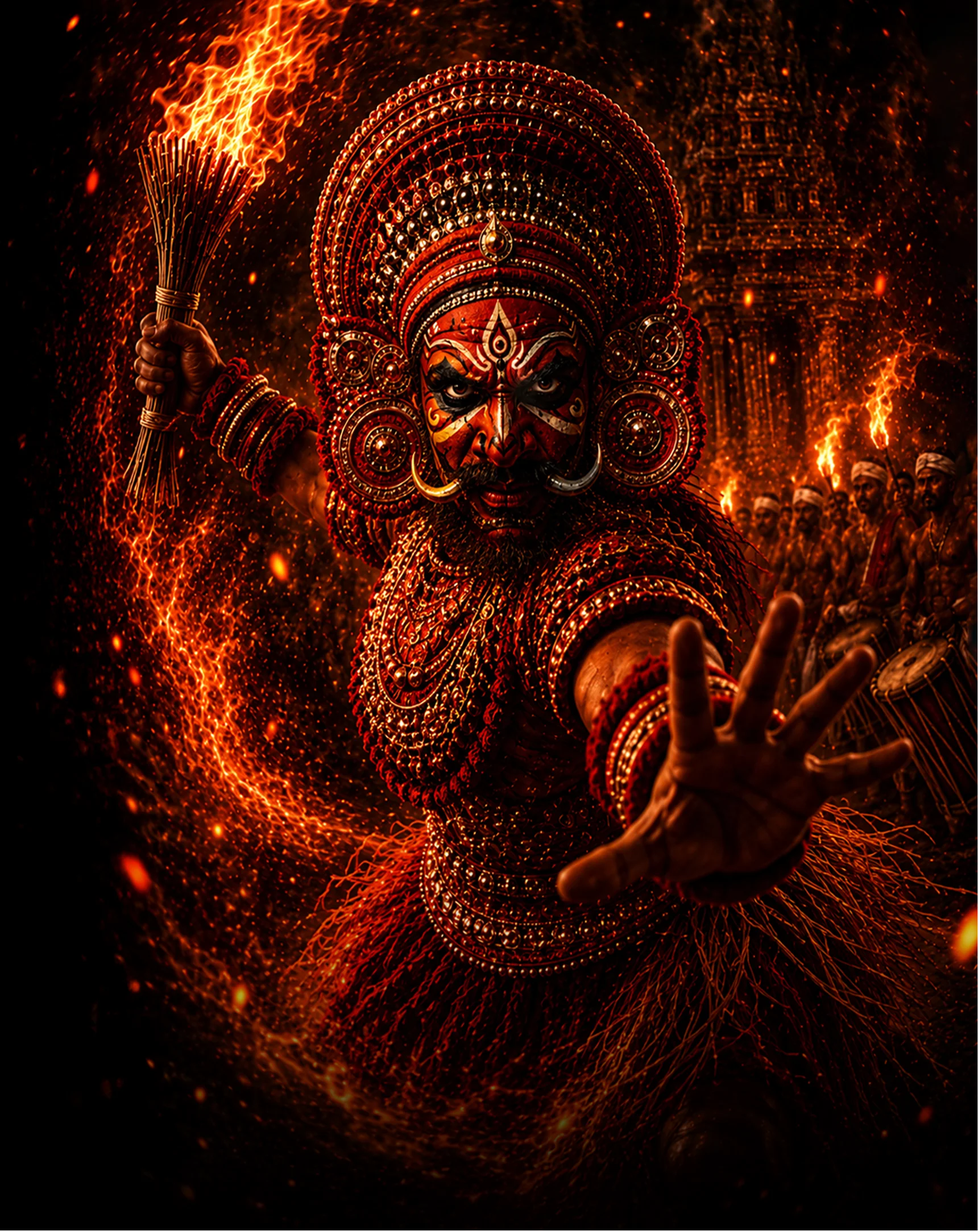
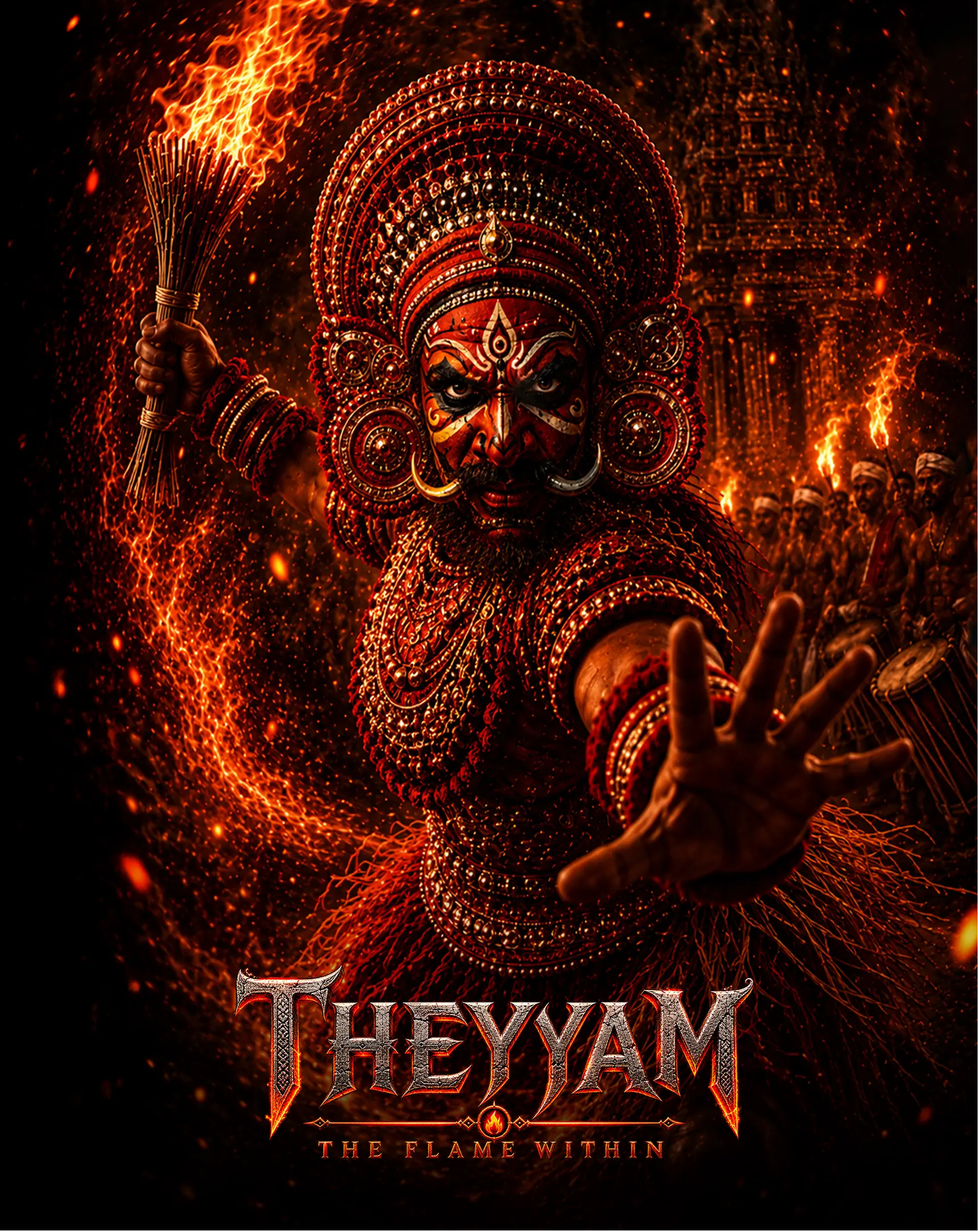
changes in about and theyyam img

Changed region(s): [[0.2157, 0.7733, 0.7703, 0.9589]]

diff --git a/app/components/home/about.tsx b/app/components/home/about.tsx
@@ -164,7 +164,7 @@ const AboutSec: React.FunctionComponent = () => {
           }}
         >
           <p className="w-full md:text-2xl text-lg leading-relaxed text-black">
-            Dubai-based UI/UX and Graphic Designer with 5+ years of experience
+            Dubai-based UI/UX and Graphic Designer with 6+ years of experience
             in end-to-end UI/UX design, graphic design, and digital product
             design. Skilled in user research, wireframing, prototyping,
             usability testing, visual design, and design systems. Experienced in
